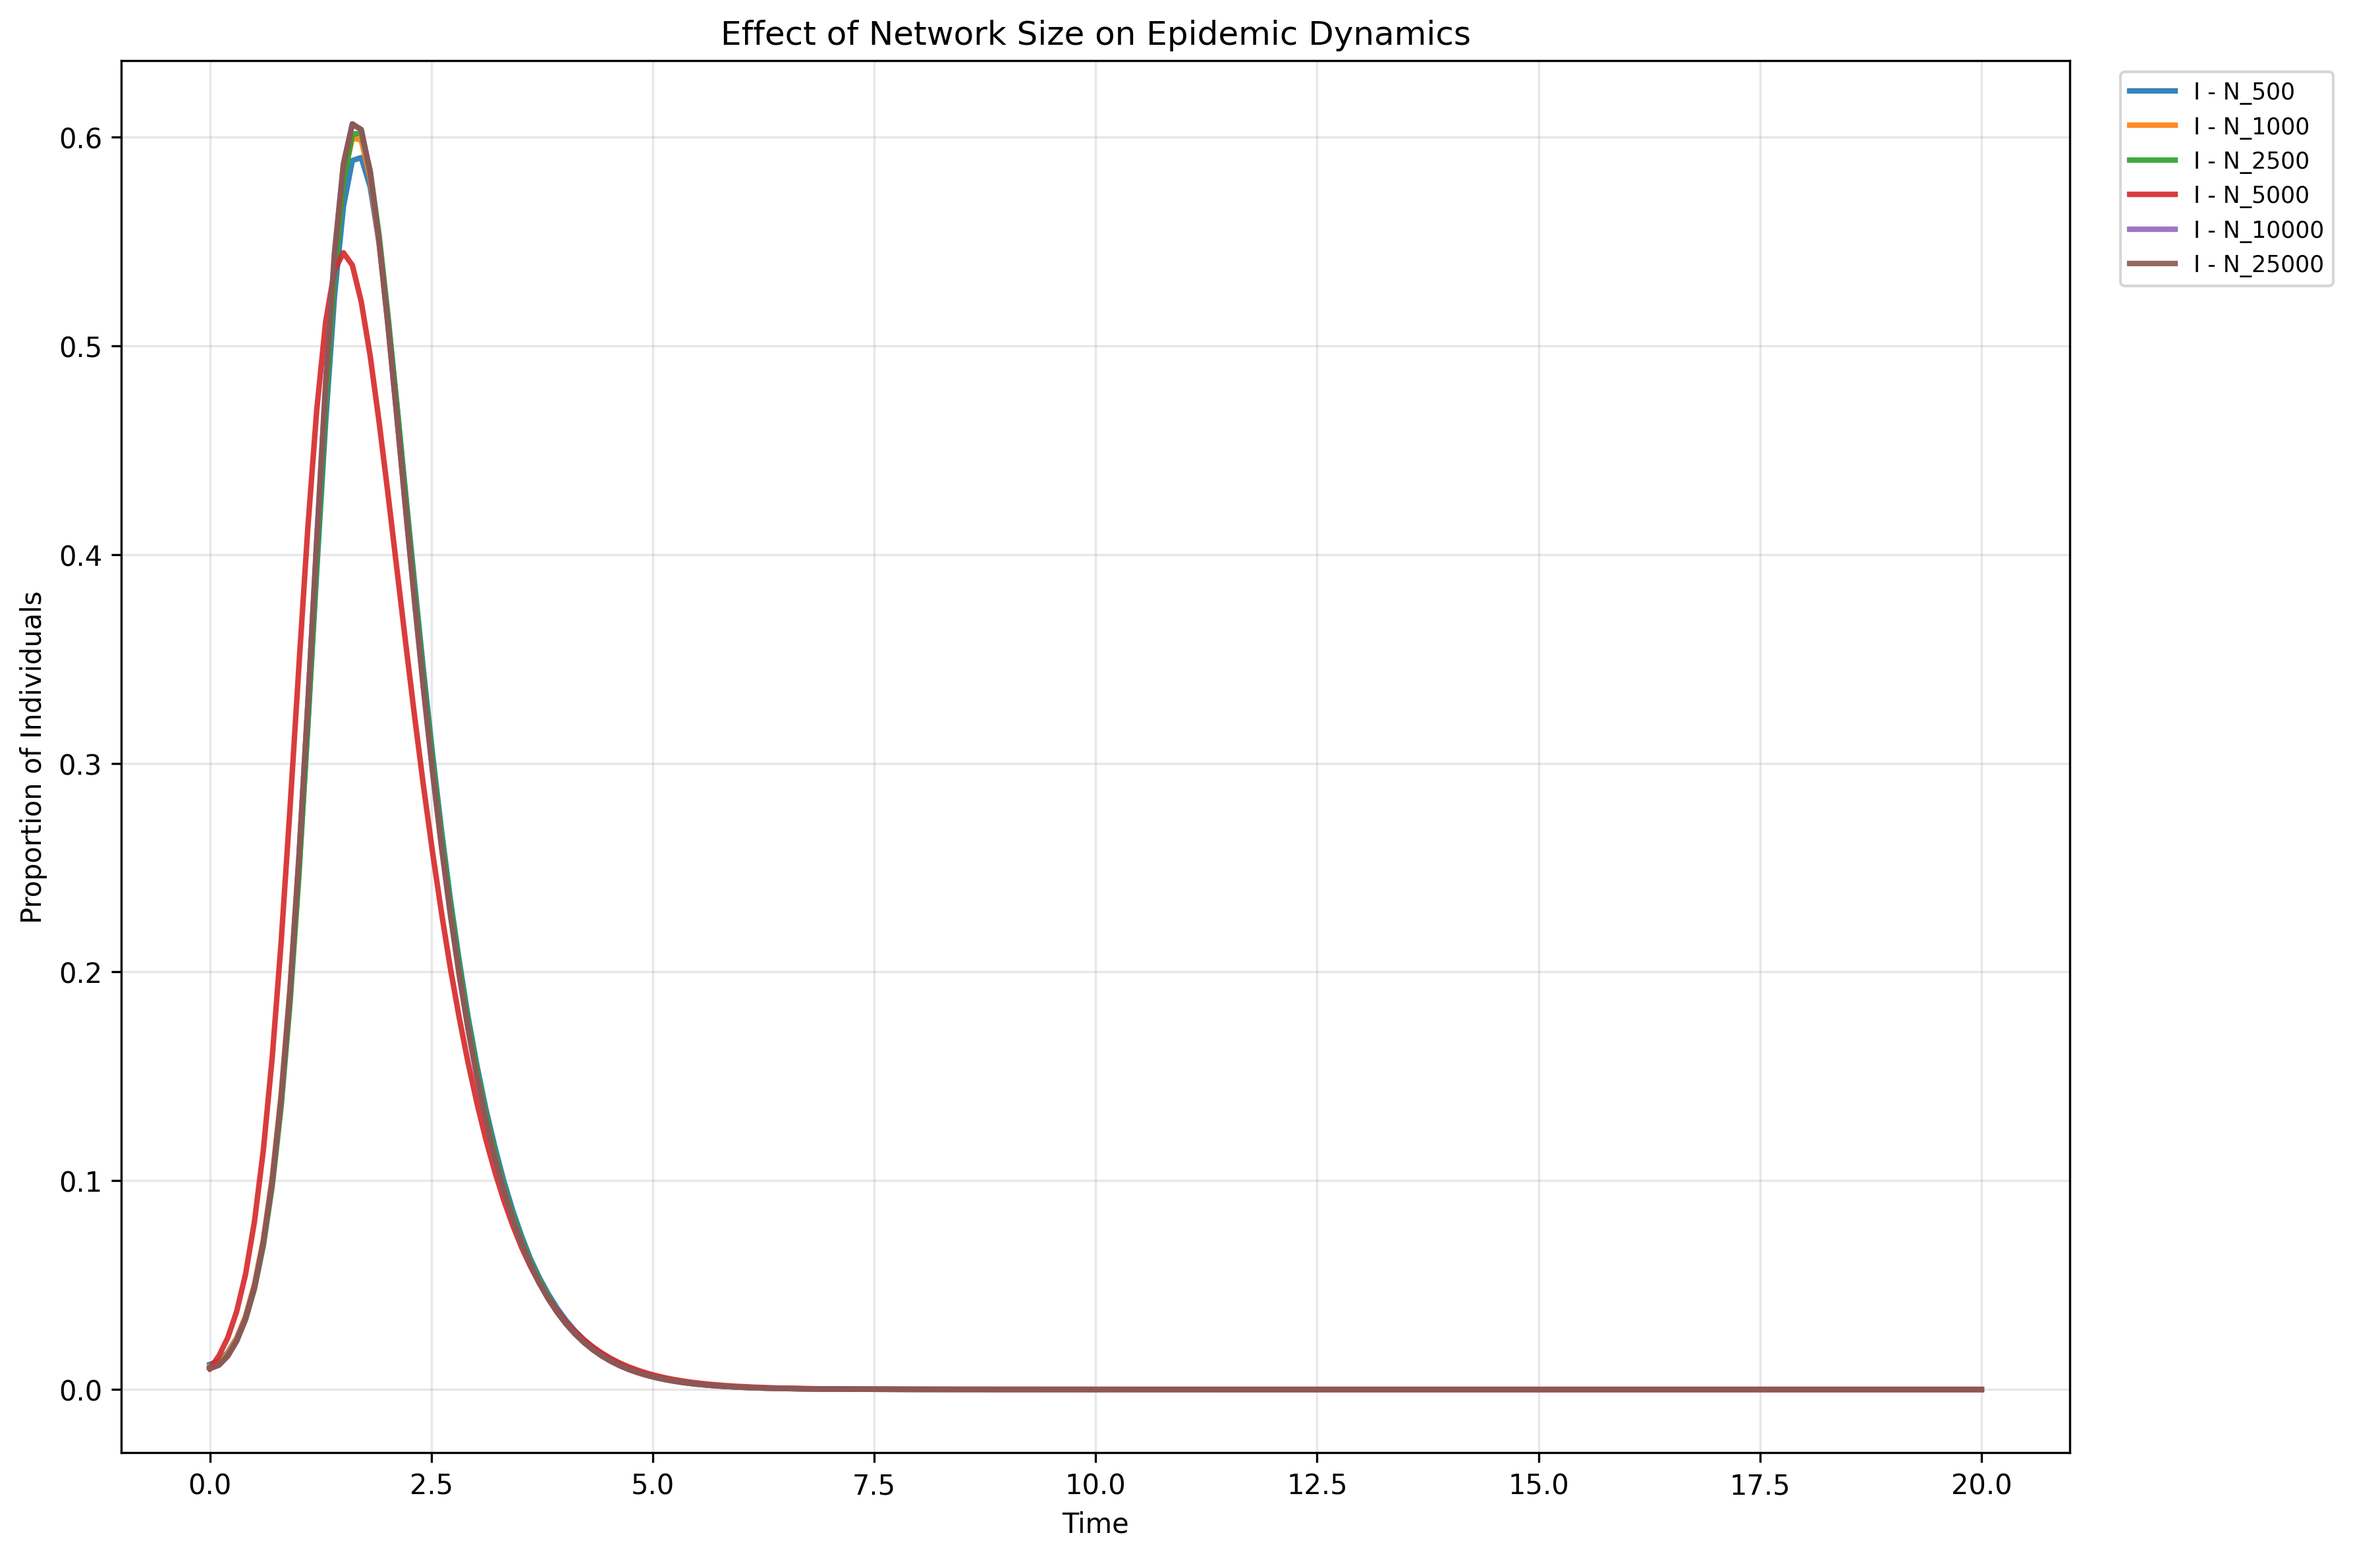
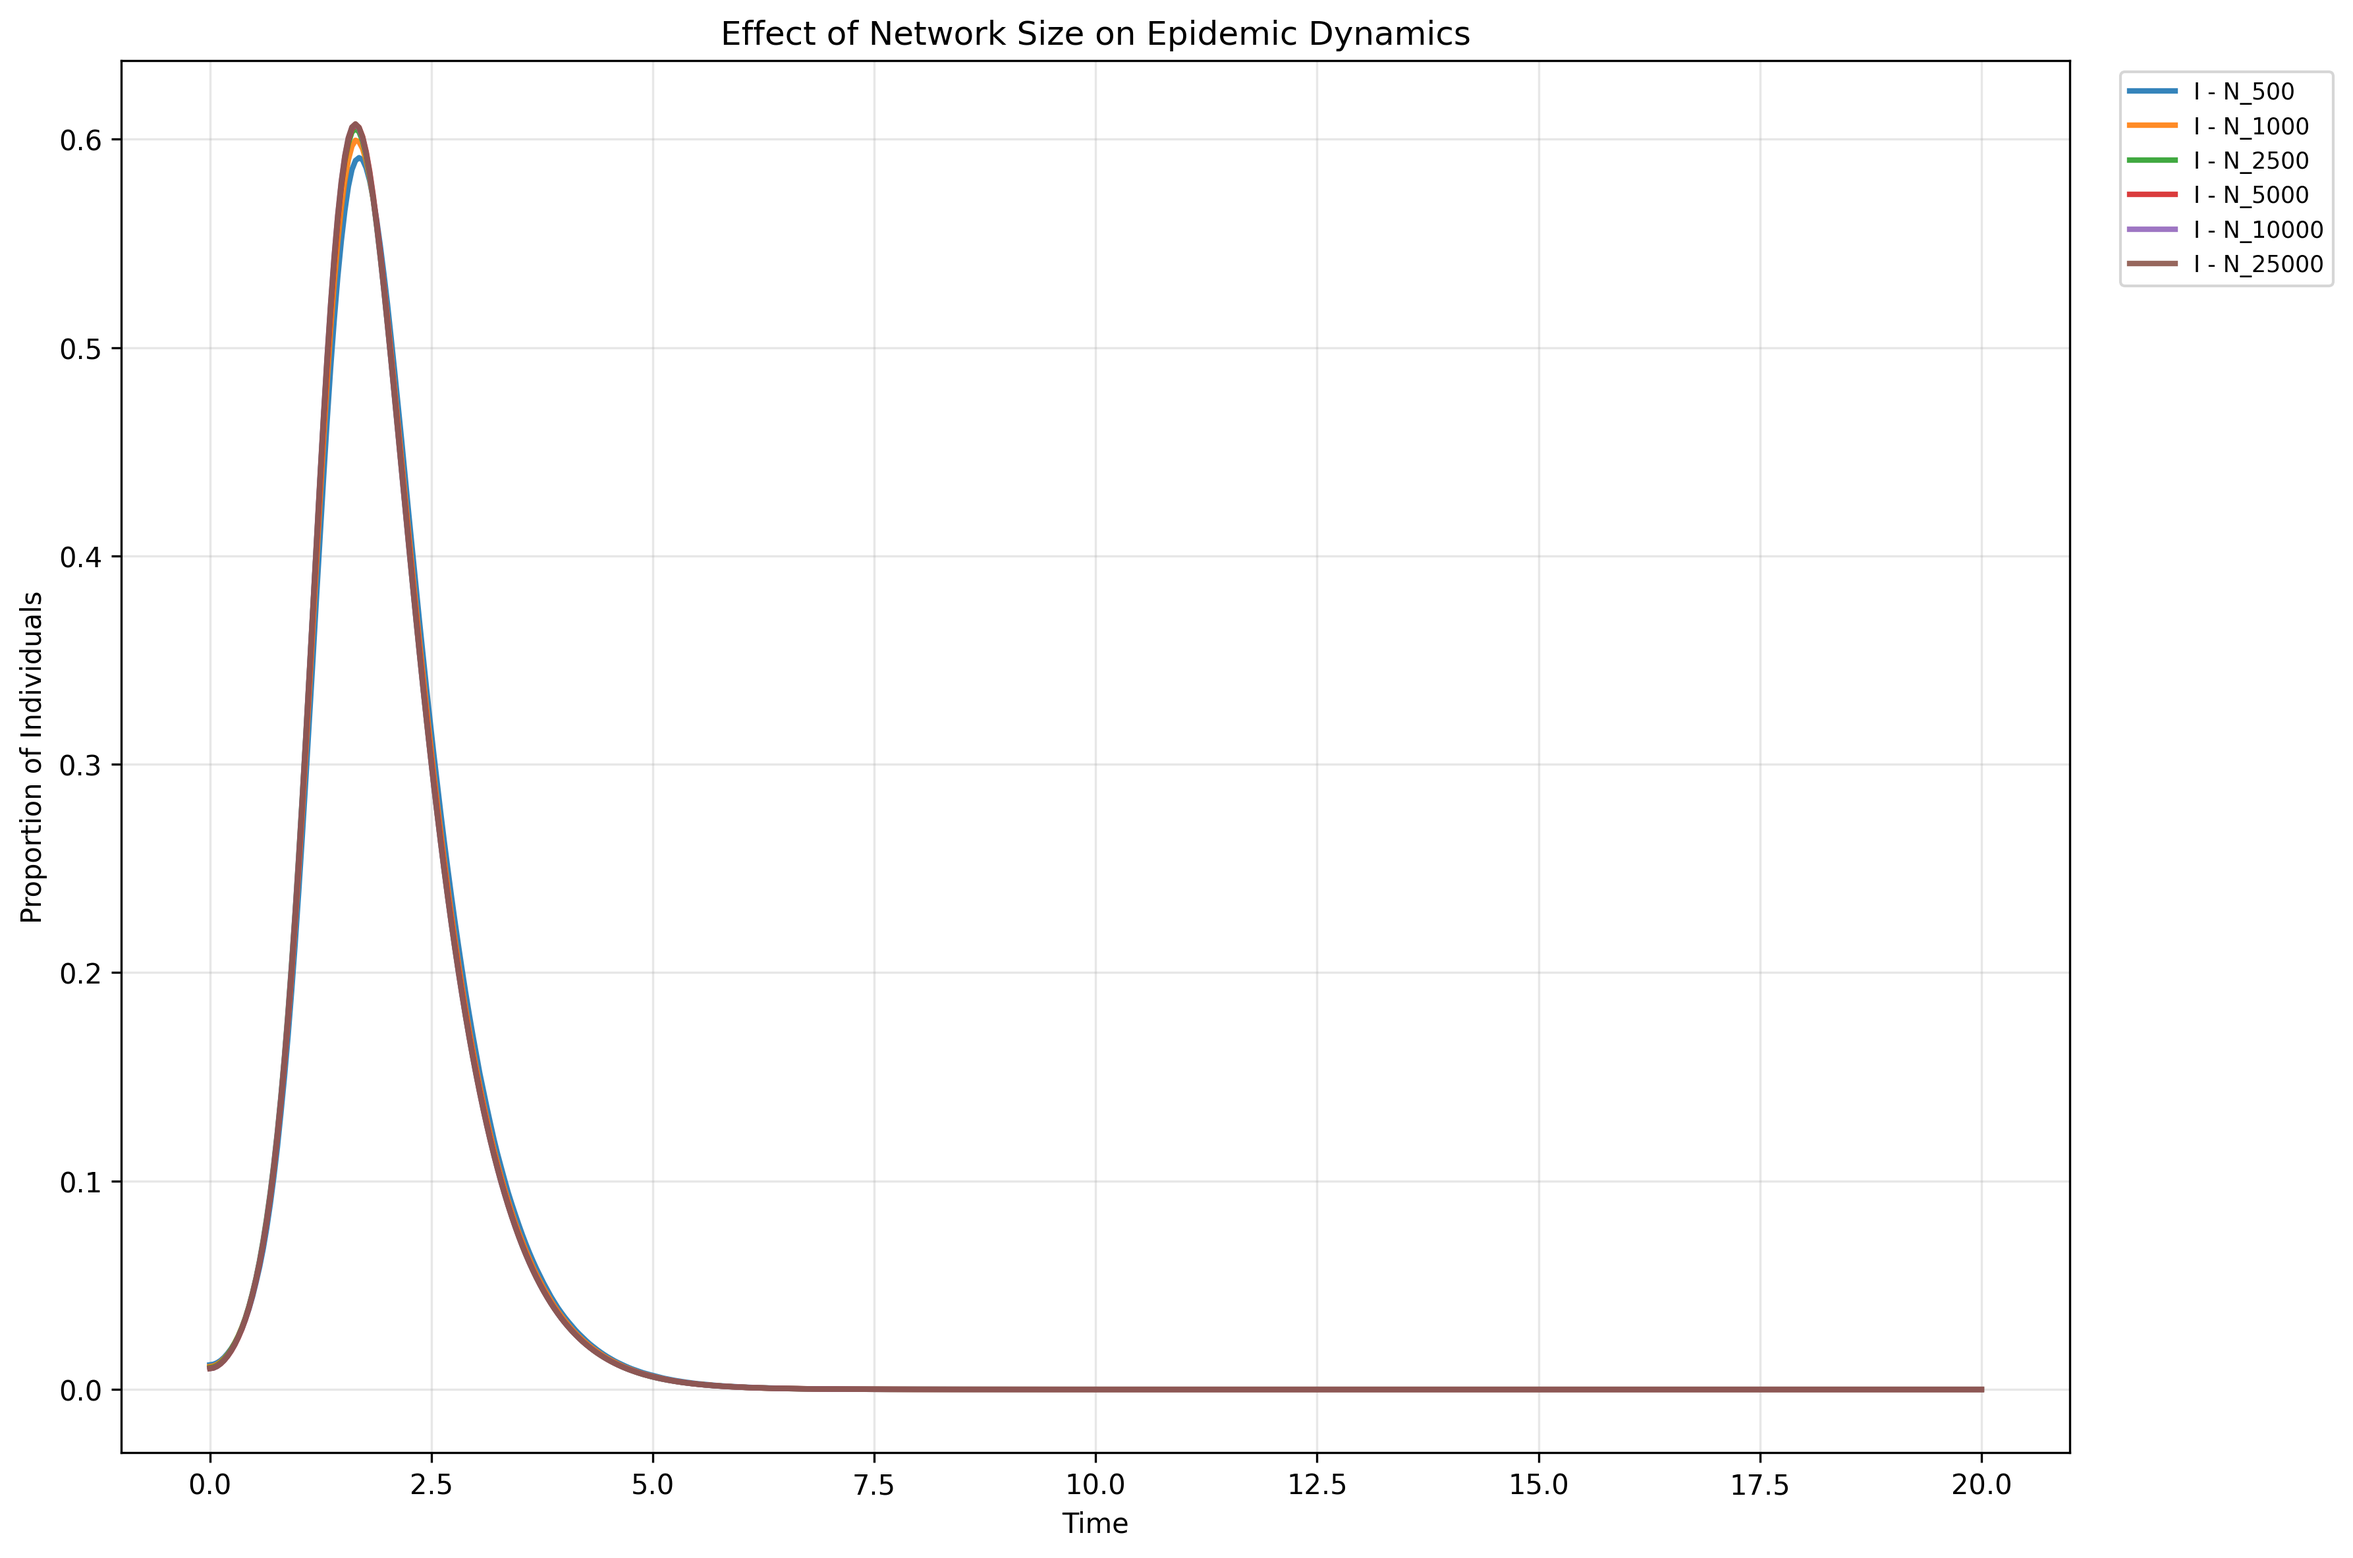
feat: add --all and --override flags to batch command
--all (-a): Run all experiments in order without interactive menu
--override: Clear existing results and force re-execution

Usage examples:
  spkmc batch --all              # Run all, skip existing
  spkmc batch --all --override   # Run all, force re-execution
  spkmc batch --override         # Interactive, but force re-execution

diff --git a/spkmc/cli/commands.py b/spkmc/cli/commands.py
@@ -1418,6 +1418,10 @@ def compare(simple, result_files, labels, output, format, dpi, export, verbose):
 @cli.command(help="Executar múltiplos cenários de simulação a partir de um arquivo JSON ou experimento")
 @click.option("--simple", is_flag=True, help="Gerar arquivo de resultado simplificado em CSV (tempo, infectados, erro)")
 @click.argument("scenarios_file", type=str, default=None, required=False)
+@click.option("--all", "-a", "run_all", is_flag=True, default=False,
+              help="Executar todos os experimentos em ordem (sem menu interativo)")
+@click.option("--override", is_flag=True, default=False,
+              help="Limpar resultados existentes e forçar re-execução completa")
 @click.option("--experiments-dir", "-e", type=str, default=None,
               help="Diretório base para experimentos (padrão: experiments)")
 @click.option("--output-dir", "-o", type=str, default="./results",
@@ -1434,7 +1438,7 @@ def compare(simple, result_files, labels, output, format, dpi, export, verbose):
               help="Criar um arquivo zip com os resultados de cada cenário")
 @click.option("--verbose", "-v", is_flag=True, default=False,
               help="Mostrar informações detalhadas durante a execução")
-def batch(simple, scenarios_file, experiments_dir, output_dir, prefix, compare, no_plot, save_plot, zip, verbose):
+def batch(simple, scenarios_file, run_all, override, experiments_dir, output_dir, prefix, compare, no_plot, save_plot, zip, verbose):
     """
     Executa múltiplos cenários de simulação a partir de um arquivo JSON ou experimento.
 
@@ -1469,53 +1473,93 @@ def batch(simple, scenarios_file, experiments_dir, output_dir, prefix, compare, 
             log_info("Crie um experimento em experiments/<nome>/data.json ou especifique um arquivo de cenários.")
             return
 
-        # Exibir menu de experimentos
-        selected = display_experiments_menu(experiments)
+        # Determinar quais experimentos executar
+        if run_all:
+            # Executar todos os experimentos em ordem
+            experiments_to_run = experiments
+            log_info(f"Executando todos os {len(experiments)} experimentos em ordem...")
+        else:
+            # Exibir menu de experimentos
+            selected = display_experiments_menu(experiments)
 
-        if selected is None:
-            log_info("Operação cancelada pelo usuário.")
-            return
+            if selected is None:
+                log_info("Operação cancelada pelo usuário.")
+                return
 
-        experiment = experiments[selected - 1]
-        log_info(f"Experimento selecionado: {experiment.name}")
+            experiments_to_run = [experiments[selected - 1]]
+            log_info(f"Experimento selecionado: {experiments_to_run[0].name}")
 
-        # Verificar se há resultados existentes
-        force_rerun = False
-        if experiment.has_results:
-            log_warning(f"O experimento '{experiment.name}' já possui {experiment.result_count} resultado(s).")
-            if click.confirm("Deseja limpar os resultados existentes e re-executar?", default=False):
-                experiment.clean_results()
-                force_rerun = True  # Force re-execution of all scenarios
-                log_success("Resultados anteriores removidos. Forçando re-execução completa.")
-            else:
-                log_info("Mantendo resultados existentes. Cenários já executados serão ignorados.")
+        # Executar cada experimento
+        total_start_time = time.time()
+        total_scenarios_processed = 0
+        experiments_completed = 0
 
-        # Executar o experimento
-        start_time = time.time()
-        log_debug(f"Iniciando execução do experimento em {datetime.now().strftime('%Y-%m-%d %H:%M:%S')}", verbose_only=False)
+        for exp_index, experiment in enumerate(experiments_to_run):
+            if run_all:
+                console.print()
+                console.print(format_title(f"Experimento {exp_index + 1}/{len(experiments_to_run)}: {experiment.name}"))
 
-        result_files = run_experiment_scenarios(
-            experiment=experiment,
-            verbose=verbose,
-            use_simple=use_simple,
-            create_zip=zip,
-            no_plot=no_plot,
-            save_plot=save_plot,
-            force_rerun=force_rerun
-        )
+            # Verificar se há resultados existentes
+            force_rerun = False
+            if experiment.has_results:
+                if override:
+                    # Com --override, limpa resultados e força re-execução
+                    experiment.clean_results()
+                    force_rerun = True
+                    log_info(f"Resultados anteriores de '{experiment.name}' removidos. Forçando re-execução.")
+                elif run_all:
+                    # No modo --all sem --override, pula cenários já executados
+                    log_info(f"Experimento '{experiment.name}' possui {experiment.result_count} resultado(s). Cenários existentes serão ignorados.")
+                else:
+                    # Modo interativo: pergunta ao usuário
+                    log_warning(f"O experimento '{experiment.name}' já possui {experiment.result_count} resultado(s).")
+                    if click.confirm("Deseja limpar os resultados existentes e re-executar?", default=False):
+                        experiment.clean_results()
+                        force_rerun = True
+                        log_success("Resultados anteriores removidos. Forçando re-execução completa.")
+                    else:
+                        log_info("Mantendo resultados existentes. Cenários já executados serão ignorados.")
 
-        # Resumo final
-        end_time = time.time()
-        total_execution_time = end_time - start_time
+            # Executar o experimento
+            start_time = time.time()
+            log_debug(f"Iniciando execução do experimento em {datetime.now().strftime('%Y-%m-%d %H:%M:%S')}", verbose_only=False)
 
-        console.print(format_title("Resumo da Execução do Experimento"))
-        console.print(f"  {format_param('Experimento', experiment.name)}")
-        console.print(f"  {format_param('Total de cenários', len(experiment.scenarios))}")
-        console.print(f"  {format_param('Cenários processados', len(result_files))}")
-        console.print(f"  {format_param('Tempo total de execução', f'{total_execution_time:.2f} segundos')}")
-        console.print(f"  {format_param('Diretório de resultados', str(experiment.results_dir))}")
+            result_files = run_experiment_scenarios(
+                experiment=experiment,
+                verbose=verbose,
+                use_simple=use_simple,
+                create_zip=zip,
+                no_plot=no_plot,
+                save_plot=save_plot,
+                force_rerun=force_rerun
+            )
 
-        log_success(f"Experimento concluído. {len(result_files)} cenário(s) processado(s).")
+            # Resumo do experimento
+            end_time = time.time()
+            execution_time = end_time - start_time
+            total_scenarios_processed += len(result_files)
+            experiments_completed += 1
+
+            if not run_all:
+                console.print(format_title("Resumo da Execução do Experimento"))
+                console.print(f"  {format_param('Experimento', experiment.name)}")
+                console.print(f"  {format_param('Total de cenários', len(experiment.scenarios))}")
+                console.print(f"  {format_param('Cenários processados', len(result_files))}")
+                console.print(f"  {format_param('Tempo total de execução', f'{execution_time:.2f} segundos')}")
+                console.print(f"  {format_param('Diretório de resultados', str(experiment.results_dir))}")
+
+            log_success(f"Experimento '{experiment.name}' concluído. {len(result_files)} cenário(s) processado(s) em {execution_time:.1f}s.")
+
+        # Resumo final para --all
+        if run_all:
+            total_execution_time = time.time() - total_start_time
+            console.print()
+            console.print(format_title("Resumo Final - Todos os Experimentos"))
+            console.print(f"  {format_param('Experimentos executados', experiments_completed)}")
+            console.print(f"  {format_param('Total de cenários processados', total_scenarios_processed)}")
+            console.print(f"  {format_param('Tempo total de execução', f'{total_execution_time:.2f} segundos')}")
+            log_success(f"Todos os {experiments_completed} experimentos concluídos.")
+
         return
 
     # ============================================================
@@ -1585,6 +1629,13 @@ def batch(simple, scenarios_file, experiments_dir, output_dir, prefix, compare, 
         scenarios=scenarios
     )
 
+    # Handle --override for file mode
+    force_rerun = False
+    if override and experiment.has_results:
+        experiment.clean_results()
+        force_rerun = True
+        log_info(f"Resultados anteriores removidos. Forçando re-execução.")
+
     # Use parallelized execution
     result_files = run_experiment_scenarios(
         experiment=experiment,
@@ -1592,7 +1643,8 @@ def batch(simple, scenarios_file, experiments_dir, output_dir, prefix, compare, 
         use_simple=use_simple,
         create_zip=zip,
         no_plot=no_plot,
-        save_plot=save_plot
+        save_plot=save_plot,
+        force_rerun=force_rerun
     )
 
     # Summary
